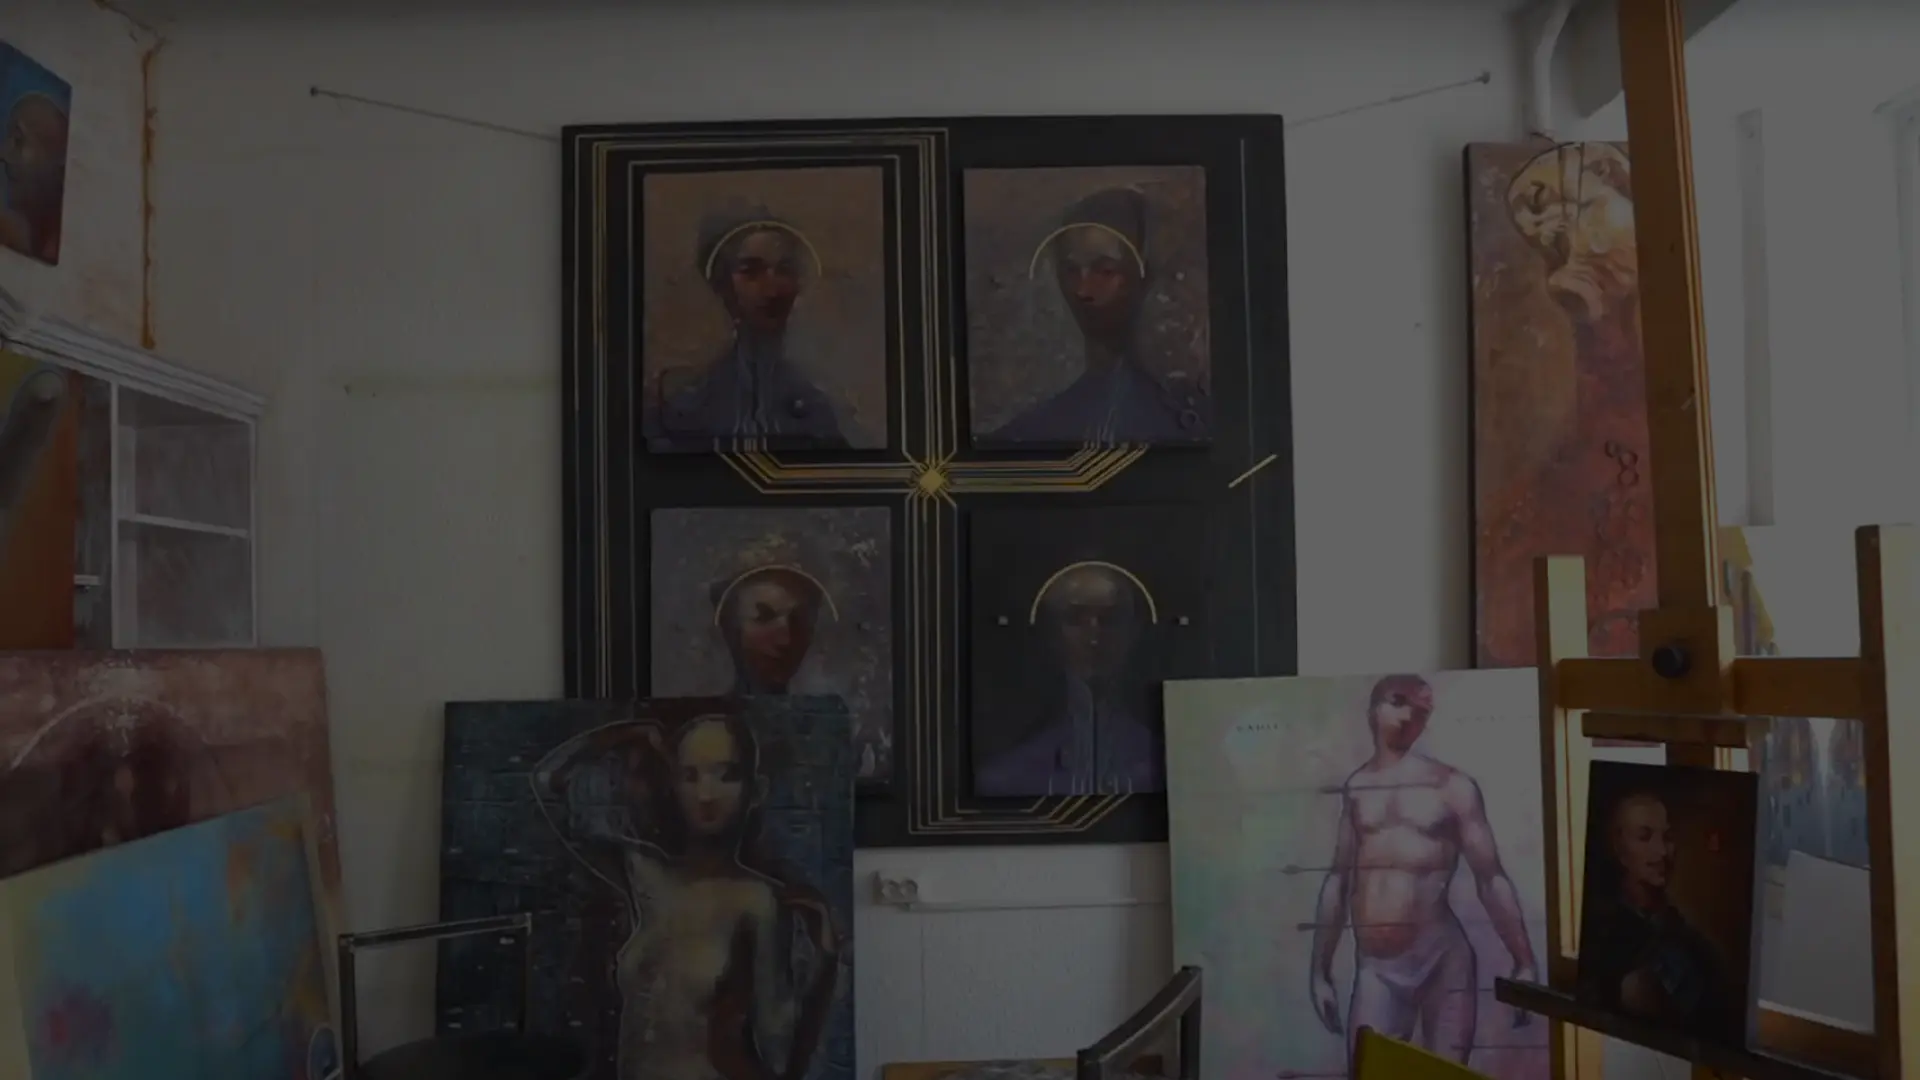
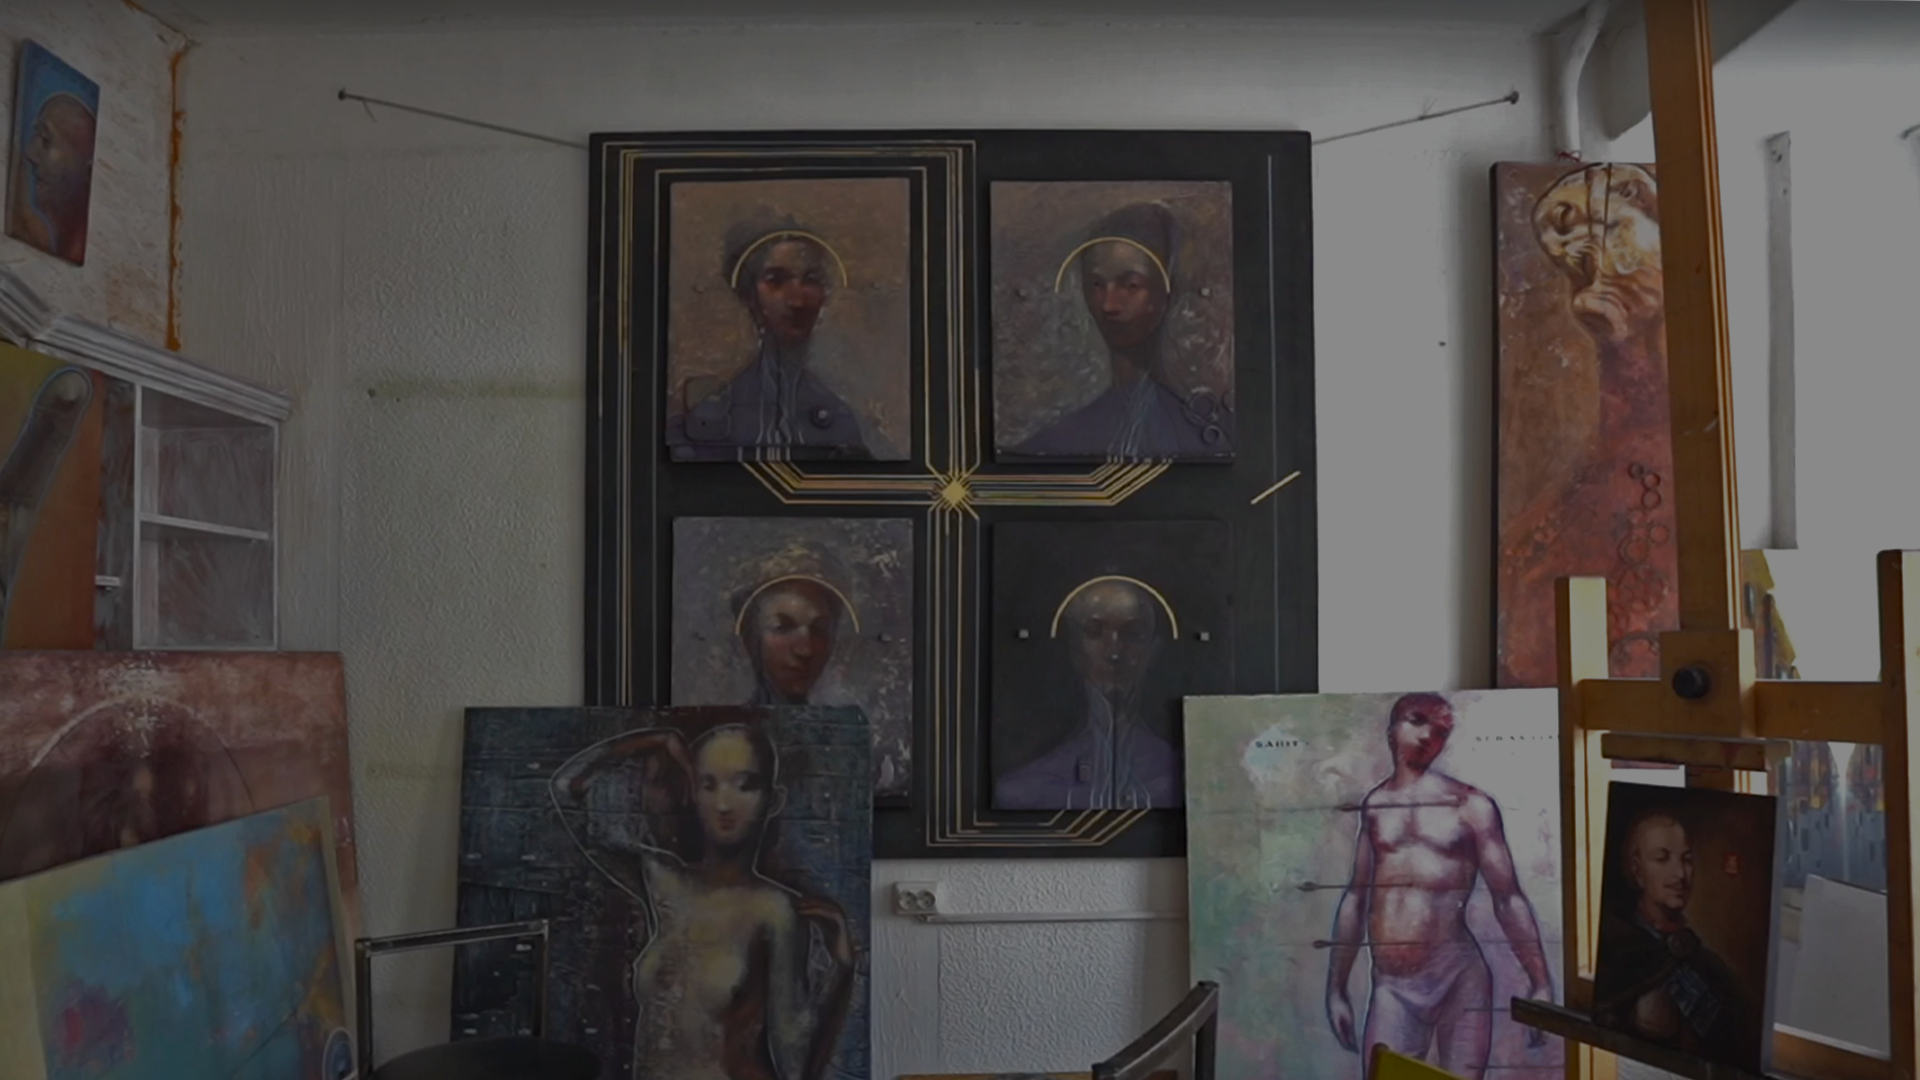
Background Image as GatsbyImage

diff --git a/src/components/Biography/Biography-section.jsx b/src/components/Biography/Biography-section.jsx
@@ -1,7 +1,10 @@
 import React from 'react';
 import { Zoom } from 'react-reveal';
+import heroData from '../../mock/hero.json';
 import { GatsbyImage, getImage } from 'gatsby-plugin-image';
 import { graphql, useStaticQuery } from 'gatsby';
+
+const imgRegEx = /(\w+\.\w+)/g;
 
 const Bio = () => {
   const pageQuery = useStaticQuery(
@@ -27,20 +30,47 @@ const Bio = () => {
             }
           }
         }
+        allFile {
+          edges {
+            node {
+              relativePath
+              name
+              childImageSharp {
+                gatsbyImageData(placeholder: DOMINANT_COLOR, formats: WEBP, layout: CONSTRAINED)
+              }
+            }
+          }
+        }
       }
     `
   );
-  const edges = pageQuery.allMarkdownRemark.edges;
+  const edgesAllMarkdownRemark = pageQuery.allMarkdownRemark.edges;
+  const edges = pageQuery.allFile.edges;
 
-  const BioComponent = edges
+  const imageDesktop = edges.find(n =>
+    n.node.relativePath.includes(heroData.backgroundImage_hero.match(imgRegEx))
+  );
+  const imageMobile = edges.find(n =>
+    n.node.relativePath.includes(heroData.backgroundImage_heroMobile.match(imgRegEx))
+  );
+
+  if (!imageDesktop) return ' ';
+
+  if (!imageMobile) return ' ';
+
+  const imageForDesktop = getImage(imageDesktop.node);
+  const imageForMobile = getImage(imageMobile.node);
+
+  const BioComponent = edgesAllMarkdownRemark
     .filter(edge => !!edge.node.frontmatter.bioImage)
     .map(edge => {
       const image = getImage(edge.node.frontmatter.bioImage);
       return (
         <div key={edge.node.frontmatter.title}>
           <div id="top" />
-          <div className="bio-bg" />
-          <div className="overlay" />
+          {/* <div className="bio-bg" /> */}
+          <GatsbyImage className="bio-bg desktop" alt="" image={imageForDesktop} />
+          <GatsbyImage className="bio-bg mobile" alt="" image={imageForMobile} />
           <div className="bio-message-wrapper">
             <div className="bio-intro">
               <Zoom duration={500} delay={10}>

diff --git a/src/components/Artworks/Artworks-section.jsx b/src/components/Artworks/Artworks-section.jsx
@@ -5,6 +5,11 @@ import { Link } from 'gatsby';
 import ArtworksListComponent from './Artworks-list-component';
 import ArtworksFilterComponent from './Artworks-filter-component';
 import 'bootstrap/dist/css/bootstrap.min.css';
+import heroData from '../../mock/hero.json';
+import { GatsbyImage, getImage } from 'gatsby-plugin-image';
+import { graphql, useStaticQuery } from 'gatsby';
+
+const imgRegEx = /(\w+\.\w+)/g;
 
 const Artworkslist = () => {
   const [filterFisibility, setFilterVisibility] = useState('opened artworks-filter-wrapper');
@@ -19,11 +24,44 @@ const Artworkslist = () => {
       setFiltersArrow('fa fa-angle-down fa cta-btn--hero');
     }
   };
+  const bgImageQuery = useStaticQuery(
+    graphql`
+      query {
+        allFile {
+          edges {
+            node {
+              relativePath
+              name
+              childImageSharp {
+                gatsbyImageData(placeholder: DOMINANT_COLOR, formats: WEBP, layout: CONSTRAINED)
+              }
+            }
+          }
+        }
+      }
+    `
+  );
+  const edges = bgImageQuery.allFile.edges;
+
+  const imageDesktop = edges.find(n =>
+    n.node.relativePath.includes(heroData.backgroundImage_hero.match(imgRegEx))
+  );
+  const imageMobile = edges.find(n =>
+    n.node.relativePath.includes(heroData.backgroundImage_heroMobile.match(imgRegEx))
+  );
+
+  if (!imageDesktop) return ' ';
+
+  if (!imageMobile) return ' ';
+
+  const imageForDesktop = getImage(imageDesktop.node);
+  const imageForMobile = getImage(imageMobile.node);
   return (
     <>
       <div id="top" />
-      <div className="artworks-list-bg" />
-      <div className="overlay-artworks" />
+      {/* <div className="artworks-list-bg" /> */}
+      <GatsbyImage className="artworks-list-bg desktop" alt="" image={imageForDesktop} />
+      <GatsbyImage className="artworks-list-bg mobile" alt="" image={imageForMobile} />
       <Container className="filter-container">
         <div>
           <h1 className="align-left white filter-header">

diff --git a/src/components/ArtworkIndividual/ArtworkIndividual-section.jsx b/src/components/ArtworkIndividual/ArtworkIndividual-section.jsx
@@ -94,9 +94,9 @@ const IndividualSection = ({ image, frontmatter, html, id }) => {
                   hasThumbnails={false}
                   shouldSwipeOnMouse
                   hasIndexBoard={false}
-                  // hasSizeButtonAtMax={false}
-                  // hasMediaButtonAtMax={false}
                   hasIndexBoardAtMax={false}
+                  hasRightButtonAtMax={false}
+                  hasLeftButtonAtMax={false}
                   hasThumbnailsAtMax={false}
                   hasMediaButtonAtMax="topLeft"
                   hasSizeButtonAtMax="topRight"
@@ -104,8 +104,6 @@ const IndividualSection = ({ image, frontmatter, html, id }) => {
                   hasSizeButton="topRight"
                   hasDotButtonsAtMax="bottom"
                   objectFit="contain"
-                  // shouldMinimizeOnClick
-                  // thumbnailHeight="80px"
                 />
               </Zoom>
             )}

diff --git a/src/components/Hero/Hero-section.jsx b/src/components/Hero/Hero-section.jsx
@@ -17,11 +17,7 @@ const Hero = () => {
               relativePath
               name
               childImageSharp {
-                gatsbyImageData(
-                  placeholder: DOMINANT_COLOR
-                  formats: WEBP
-                  layout: CONSTRAINED
-                )
+                gatsbyImageData(placeholder: DOMINANT_COLOR, formats: WEBP, layout: CONSTRAINED)
               }
             }
           }
@@ -38,7 +34,7 @@ const Hero = () => {
   if (!image) return ' ';
 
   const imageToGo = getImage(image.node);
-  console.log(imageToGo);
+  console.log(image);
   return (
     <div id="home" className="hero-wrapper">
       <GatsbyImage

diff --git a/src/components/Artworks/_artworks.scss b/src/components/Artworks/_artworks.scss
@@ -11,7 +11,7 @@
   bottom: 0;
   z-index: -1;
   background-attachment: fixed;
-  background: url('../images/hero-gallery-desktopn2.webp') no-repeat fixed center;
+  // background: url('../images/hero-gallery-desktopn2.webp') no-repeat fixed center;
 }
 .filter-header {
   margin: 100px auto 10px;

diff --git a/src/components/ArtworkIndividual/_individualSection.scss b/src/components/ArtworkIndividual/_individualSection.scss
@@ -33,11 +33,11 @@
     padding: 70px 0;
     overflow: hidden;
     ._Pfcmb {
-      padding: 30px;
+      padding: 30px 0;
     }
   }
   ._Pfcmb {
-    padding: 30px;
+    padding: 30px 0;
   }
 
   .individualSection_description-wrapper {
